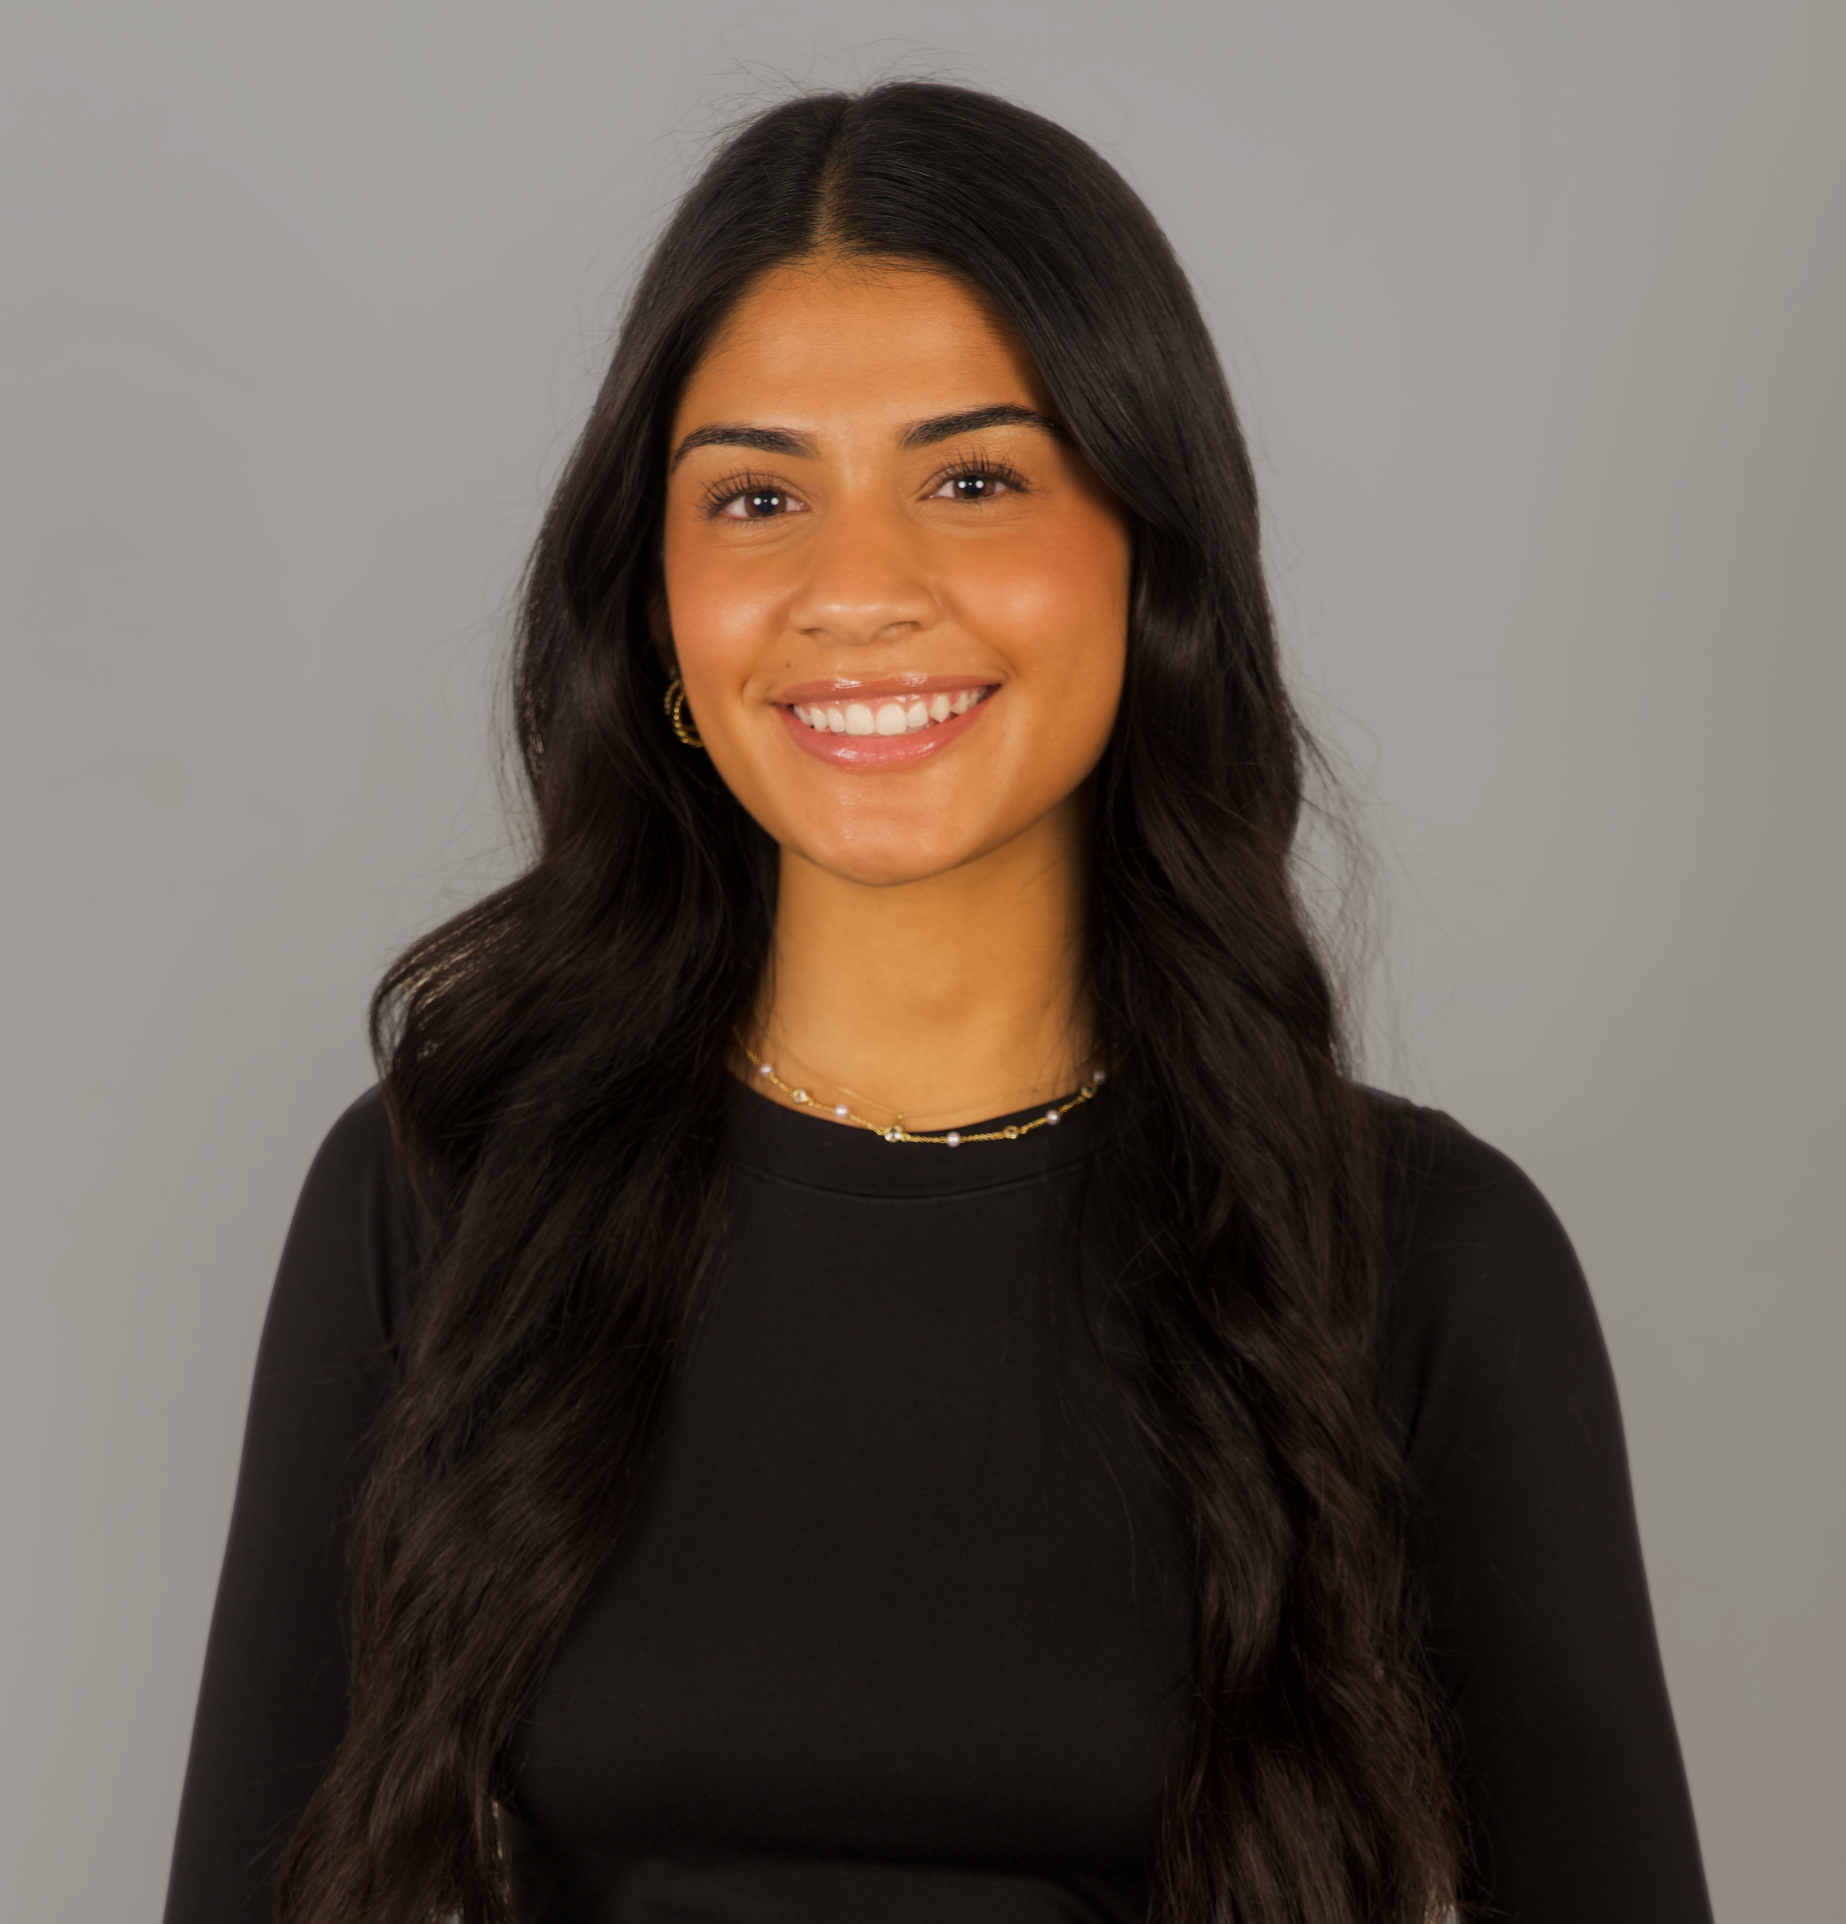
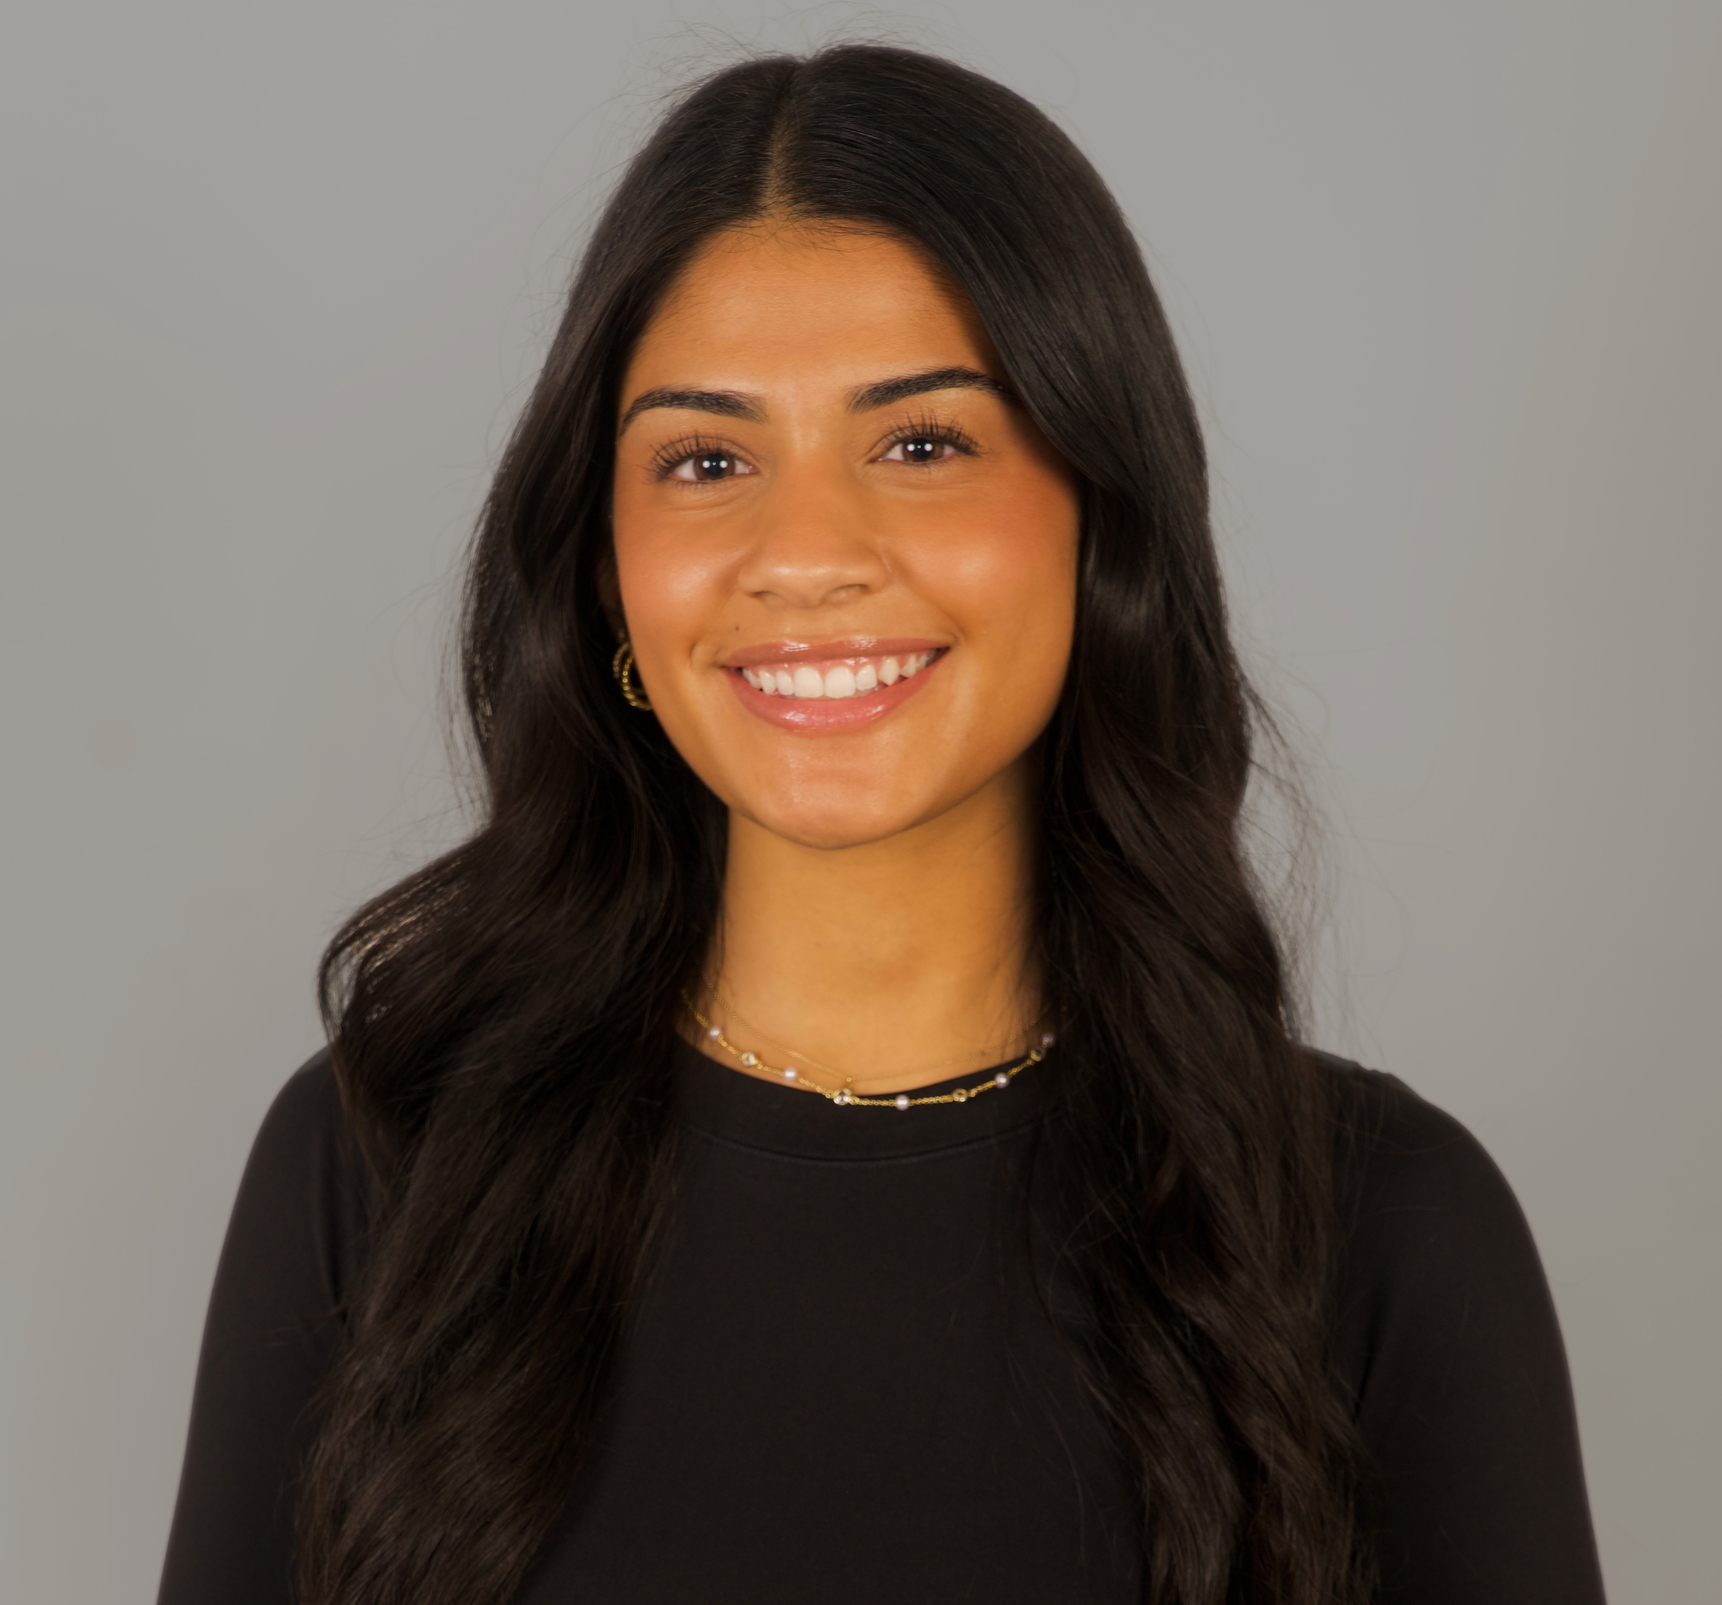
a

diff --git a/index.html b/index.html
@@ -10,6 +10,18 @@
     <link rel="icon" type="image/png" href="images/favicon.png" />
     <link rel="stylesheet" href="https://use.typekit.net/hvl2phe.css">
     <link rel="stylesheet" href="css/stylesheet.css" />
+    <link rel="preconnect" href="https://fonts.googleapis.com">
+<link rel="preconnect" href="https://fonts.gstatic.com" crossorigin>
+<link href="https://fonts.googleapis.com/css2?family=Josefin+Sans:ital,wght@0,100..700;1,100..700&display=swap" rel="stylesheet">
+<link rel="preconnect" href="https://fonts.googleapis.com">
+<link rel="preconnect" href="https://fonts.gstatic.com" crossorigin>
+<link href="https://fonts.googleapis.com/css2?family=Josefin+Sans:ital,wght@0,100..700;1,100..700&family=Jost:ital,wght@0,100..900;1,100..900&display=swap" rel="stylesheet">
+<link rel="preconnect" href="https://fonts.googleapis.com">
+<link rel="preconnect" href="https://fonts.gstatic.com" crossorigin>
+<link href="https://fonts.googleapis.com/css2?family=Cormorant+Garamond:ital,wght@0,300;0,400;0,500;0,600;0,700;1,300;1,400;1,500;1,600;1,700&family=Josefin+Sans:ital,wght@0,100..700;1,100..700&family=Jost:ital,wght@0,100..900;1,100..900&display=swap" rel="stylesheet">
+<link rel="preconnect" href="https://fonts.googleapis.com">
+<link rel="preconnect" href="https://fonts.gstatic.com" crossorigin>
+<link href="https://fonts.googleapis.com/css2?family=Cormorant+Garamond:ital,wght@0,300;0,400;0,500;0,600;0,700;1,300;1,400;1,500;1,600;1,700&family=Josefin+Sans:ital,wght@0,100..700;1,100..700&family=Jost:ital,wght@0,100..900;1,100..900&family=Luxurious+Script&display=swap" rel="stylesheet">
 
   </head>
   <body>
@@ -19,7 +31,7 @@
             <li id="logo">
               <a href="index.html#introduction"
                 ><img
-                  src="images/logo.svg"
+                  src="images/logoRender copy.png"
                   alt="RBCP logo"
                 />
               </a>
@@ -36,7 +48,7 @@
       </header>
       <main>
         <section id="introduction">
-          <h1>Hello world!<span aria-hidden="true">👋</h1></span><h2>I'm Nicole Singh!!, a graphic designer in the GTA, specializing in Editorial and Web Design </h2>
+          <h1>Welcome</h1></span><h2>Hi! My name is Nicole Singh, a Graphic Designer in the GTA, specializing in UI UX and Web Design </h2>
           <a class="btn" href="index.html#portfolio">Explore My Work</a>
         </section>
         <section id="portfolio">
@@ -44,50 +56,50 @@
               <div class="featured">
                   <a href="#treasure.html">
                       <picture>
-                          <source srcset="images/treasure_thumbnail@2x.webp" media="(min-width:800px)"/>
-                          <source srcset="images/treasure_thumbnail@1x.webp"/>
-                          <img src="images/treasure_thumbnail@1x.jpg" alt="Book cover for Treasure Island redesign" />
+                          <source srcset="images/RC-MistSpray-Mockup copy.jpg" media="(min-width:800px)"/>
+                          <source srcset="images/RC-MistSpray-Mockup copy.jpg"/>
+                          <img src="images/RC-MistSpray-Mockup copy.jpg" alt="Book cover for Treasure Island redesign" />
                       </picture>
-                      <h3>Treasure Island Book Design</h3>
+                      <h3>3D Packaging Hydration Mist</h3>
                       <p>
-                          Print, Art Direction, Typography
+                          Print, Packaging, ReDesign
                       </p>
                   </a>
               </div>
               <div>
                   <a href="#adidas.html">
                       <picture>
-                        <source srcset="images/bus_ad_thumbnail@2x.webp" media="(min-width:800px)"/>
-                        <source srcset="images/bus_ad_thumbnail@1x.webp"/>
-                        <img src="images/bus_ad_thumbnail@1x.jpg" alt="Poster displayed in a bus shelter" />
+                        <source srcset="images/GQCoverMockup.png" media="(min-width:800px)"/>
+                        <source srcset="images/GQCoverMockup.png"/>
+                        <img src="images/GQCoverMockup.png" alt="Poster displayed in a bus shelter" />
                       </picture>
-                      <h3>Adidas Launch Campaign</h3>
+                      <h3>GQ Magazine Redesign</h3>
                       <p>
-                          Print, Advertising, Social Media
+                          Print, ReDesign, Editorial
                       </p>
                   </a>
               </div>
               <div>
                   <a href="#creates.html">
                       <picture>
-                        <source srcset="images/create_box_thumbnail@2x.webp" media="(min-width:800px)"/>
-                        <source srcset="images/create_box_thumbnail@1x.webp"/>
-                        <img src="images/create_box_thumbnail@1x.jpg" alt="Create branded shipping box" />
+                        <source srcset="images/HoneyCrullerBox.png" media="(min-width:800px)"/>
+                        <source srcset="images/HoneyCrullerBox.png"/>
+                        <img src="images/HoneyCrullerBox.png" alt="Create branded shipping box" />
                       </picture>
-                      <h3>Creates Promotional Mailer</h3>
+                      <h3>Tim Horton's Fall Campaign</h3>
                       <p>
-                          Packaging, Print, Art Direction
+                          Packaging, Print, Branding
                       </p>
                   </a>
               </div>
               <div>
                   <a href="#">
                       <picture>
-                        <source srcset="images/mobile_mockup_thumbnail@2x.webp" media="(min-width:800px)"/>
-                        <source srcset="images/mobile_mockup_thumbnail@1x.webp"/>
-                        <img src="images/mobile_mockup_thumbnail@1x.jpg" alt="iPhone with myHumber redesign screen shot" />
+                        <source srcset="images/StreetwearDenApppng.png" media="(min-width:800px)"/>
+                        <source srcset="images/StreetwearDenApppng.png"/>
+                        <img src="images/StreetwearDenApppng.png" alt="iPhone with myHumber redesign screen shot" />
                       </picture>
-                      <h3>myHumber App Redesign</h3>
+                      <h3>Streetwear Den App Design</h3>
                       <p>
                           User Interface, User Experience Design, Prototyping, User Testing
                       </p>
@@ -100,9 +112,9 @@
                         <source srcset="images/bella_sign_thumbnail@1x.webp"/>
                         <img src="images/bella_sign_thumbnail@1x.jpg" alt="Bella branding shown on a building facade" />
                       </picture>
-                      <h3>Bella Rebrand</h3>
+                      <h3>With All My Love Chloe</h3>
                       <p>
-                          Branding, Art Direction, Print, Digital Design
+                        Logo Design, Branding
                       </p>
                   </a>
               </div>
@@ -111,9 +123,9 @@
       </section>
       <section id="about">
           <picture>
-            <source srcset="images/rbcp-portrait@2x.webp" media="(min-width:800px)"/>
-            <source srcset="images/rbcp-portrait@1x.webp"/>
-            <img src="images/rbcp-portrait@1x.jpg" alt="Portrait of a RBCP. Man wearing glasses." />
+            <source srcset="images/NCOLEHEADSHOT.jpg" media="(min-width:800px)"/>
+            <source srcset="images/NCOLEHEADSHOT.jpg"/>
+            <img src="images/NCOLEHEADSHOT.jpg" alt="Portrait of a RBCP. Man wearing glasses." />
           </picture>
           <h2>I'm a designer currently based in YYZ</h2>
           <div class="two-columns">
@@ -145,7 +157,6 @@
                   <ul>
                       <li>Sketching</li>
                       <li>Journey Mapping</li>
-                      <li>Affinity Diagrams</li>
                       <li>Rapid Prototyping</li>
                       <li>Prototyping</li>
                   </ul>
@@ -157,45 +168,38 @@
                       <li>Photoshop</li>
                       <li>Adobe XD</li>
                       <li>InDesign</li>
-                      <li>After Effects</li>
-                      <li>Premiere</li>
+                      
                   </ul>
                   <ul>
+                    <li>After Effects</li>
                       <li>Figma</li>
-                      <li>Sketch</li>
-                      <li>Zeplin</li>
                       <li>Webflow</li>
-                      <li>Flinto</li>
+
                   </ul>
       
               </div>
-              <h3>Coding + Frameworks</h3>
+              <h3>Coding</h3>
               <div class="two-columns">
                   <ul>
                       <li>HTML</li>
                       <li>CSS</li>
                       <li>JavaScript</li>
-                      <li>C++</li>
-                      <li>PHP</li>
-                      <li>Python</li>
+                     
                   </ul>
                   <ul>
-                      <li>NodeJs</li>
-                      <li>React</li>
-                      <li>NodeRED</li>
-                      <li>MongoDB</li>
-                      <li>MySQL</li>
+                    
                   </ul>
               </div>
           </div>
       </section>
       <section id="contact" class="inverted-colours">
-          <h2>Let's make something cool!</h2>
+          <h2>Let's Build Together!
+          </h2>
           <p>
               I'm currently looking for full time opportunities.
           </p>
-          <p>Hit me up!</p>
-          <a class="btn" href="mailto:rbcp@humber.ca?subject=I%20want%20to%20hire%20RBCP&body=Hi,%20RBCP">nicolecosta0903@gmail.com</a>
+          <p>Send a Message!</p>
+          <a class="btn" href="mailto:nicolecosta0903@gmail.com?subject=I%20want%20to%20hire%20RBCP&body=Hi,%20RBCP">nicolecosta0903@gmail.com</a>
           <ul>
               <li>
                   <a href="#"><i class="fa fa-github" title="Visit my GitHub"></i></a>
@@ -210,7 +214,7 @@
                   <a href="#"><i class="fa fa-twitter" title="Visit my Twitter"></i></a>
               </li>
           </ul>
-          <p>RBCP ©2024</p>
+          <p>NCS ©2024</p>
       </section>
       </main>
     <!-- Javascript 

diff --git a/css/stylesheet.css b/css/stylesheet.css
@@ -6,13 +6,16 @@
 :root {
     /* These are global variables that you can use in your CSS */
     --black:black;
+    --orange:rgb(240, 54, 8);
+    --navy:rgb(30, 45, 122);
+    --cream:antiquewhite;
     --dark-grey:#333;
-    --mid-grey:#666;
     --light-grey:#999;
     --white:white;
     --accent-colour:rgb(255, 255, 153);
-    --headline-font: lust, serif;
-    --body-font: nunito-sans, sans-serif;
+    --h1HEADING: "Luxurious Script", cursive;
+    --headline-font: "Cormorant Garamond", serif;   
+    --body-font: "Josefin Sans", sans-serif;
     --horizontal-shift:6px;
     --section-padding-top:120px;
     }
@@ -21,25 +24,38 @@
     padding: 0;
     transition: 0.5s;
 
+
     }
 html {
         scroll-behavior: smooth;
+        background-color: var(--cream);
+
         }
 
 body {
         font-family: var(--body-font);
         }
-        h1, h2, h3, h4, h5, h6 {
+        h2, h3, h4, h5, h6 {
         font-family: var(--headline-font);
+
         }
         h1 {
-        font-size: calc(40px + (72 - 40) * (100vw - 400px) / (1800 - 400));
-        margin-bottom: 3rem;
+        font-size: calc(175px + (72 - 40) * (100vw - 400px) / (1800 - 400));
+        margin-bottom: 1rem;
+        font-family: var(--h1HEADING);
+        text-align: center;
+        color: var(--orange);
+
         }
         h2 {
-        font-size: calc(32px + (48 - 32) * (100vw - 400px) / (1800 - 400));
-        margin-bottom: 1.5rem;
-        }
+            font-size: calc(27px + (48 - 32) * (100vw - 400px) / (1800 - 400));
+            margin-bottom: 1.5rem;
+            }
+#introduction    h2 {
+                font-size: calc(27px + (48 - 32) * (100vw - 400px) / (1800 - 400));
+                margin-bottom: 1.5rem;
+                text-align: center;
+                }
         h3 {
         font-size: calc(20px + (28 - 20) * (100vw - 400px) / (1800 - 400));
         }
@@ -57,26 +73,27 @@ body {
             color: var(--black);
             }
     .btn {
-            background-color: var(--black);
+            background-color: var(--orange);
             border: none;
-            color: var(--white);
+            color: var(--cream);
             padding: 15px 32px;
             text-align: center;
             text-decoration: none;
             display: inline-block;
             font-size: calc(16px + (20 - 16) * (100vw - 400px) / (1800 - 400));
             width: fit-content;
+            border-radius: 1cap;
             }
     .btn:hover {
-            background-color: var(--accent-colour);
-            color: var(--black);
+            background-color: var(--white);
+            color: var(--navy);
             padding-left: calc(32px + var(--horizontal-shift));
             }
     .btn:visited {
             color: var(--white);
             }
     .btn:hover:visited {
-            color: var(--black);
+            color: var(--orange);
             }      
 
 /* Styling the Navigation */
@@ -98,7 +115,9 @@ nav {
 
         img {
             width:100%;
-        }
+            border-radius: 1cap;
+
+                }
     nav ul {
         display: flex;
         list-style-type: none;
@@ -111,13 +130,13 @@ nav {
         }
     nav ul li a {
         text-decoration: none;
-        color: var(--black);
+        color: var(--cream);
         margin: 20px;
         }
     nav ul li a:hover {
         text-decoration: none;
-        color: var(--dark-grey);
-        background: var(--accent-colour);
+        color: var(--orange);
+        background: var(--white);
         }
 
         #logo {
@@ -128,6 +147,8 @@ nav {
             #logo img {
             height: 2rem;
             width: auto;
+            border-radius: 0cap;
+
             }
         #menu-icon, #close-icon {
             margin-left: auto;
@@ -213,11 +234,13 @@ padding-left:var(--horizontal-shift);
     #contact ul {
     display: flex;
     list-style-type: none;
-    margin-bottom:1rem;
+    margin-bottom:2rem;
+    margin-top:2rem;
+
     }
     #contact ul li a {
     text-decoration: none;
-    color: var(--accent-colour);
+    color: var(--cream);
     margin: 0 20px 0 0;
     font-size: 32px;
     }
@@ -227,22 +250,22 @@ padding-left:var(--horizontal-shift);
     }
 /* Styling to invert the colour scheme. Add this class to a section */
 .inverted-colours {
-    background:var(--black);
-    color:var(--white);
+    background:var(--orange);
+    color:var(--cream);
     }
     .inverted-colours a {
-    color:var(--white);
+    color:var(--cream);
     }
     .inverted-colours a:visited {
-    color:var(--white);
+    color:var(--cream);
     }
     .inverted-colours .btn {
-    color:var(--black);
-    background:var(--white);
+    color:var(--orange);
+    background:var(--cream);
     }
     .inverted-colours .btn:hover {
-    color:var(--black);
-    background:var(--accent-colour);
+    color:var(--orange);
+    background:var(--white);
     }
 
 
